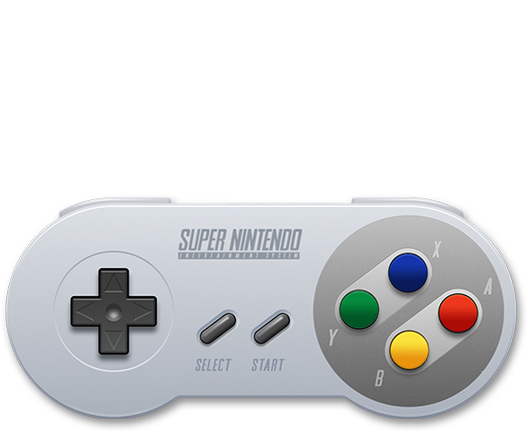
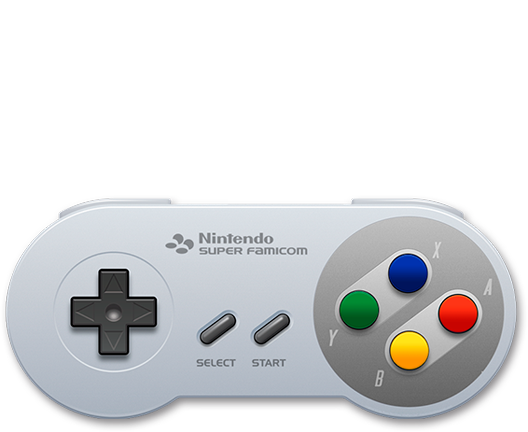
Correct filename and update readme
As above!

diff --git a/README.md b/README.md
@@ -171,8 +171,8 @@ SEGA 32x \
 SEGA CD \
 SEGA Dreamcast \
 SEGA Game Gear \
-SEGA Megadrive \
 SEGA Master System \
+SEGA Megadrive \
 SEGA Saturn \
 Vectrex \
 Virtual Boy \
@@ -182,9 +182,11 @@ ZX Spectrum
 
 **System Variations:** \
 Famicom / Family Computer \
+Super Famicom \
+PC Engine CD-ROM² \
+SuperGrafx \
 TurboGrafx-16 \
 TurboGrafx-CD \
-PC Engine CD-ROM² \
 SEGA Genesis \
 SEGA MEGA-32X \
 SEGA MEGA-CD
@@ -231,9 +233,7 @@ Z-Machine
 Custom Collections (for when a user creates their own collection within ES)
 
 **System Variations:** \
-Odyssey 2 \
-SuperGrafx \
-Super Famicom
+Odyssey 2
 
 ###### [back to top](#chicuelo-emulationstation-theme)
 
